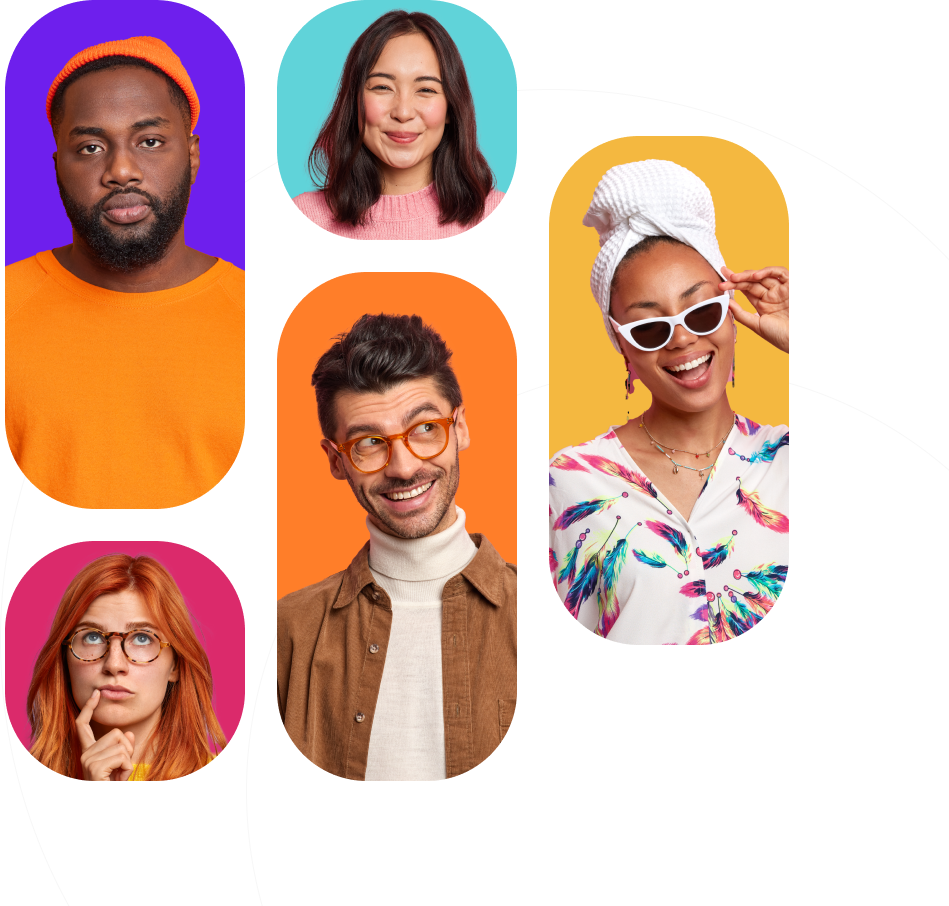
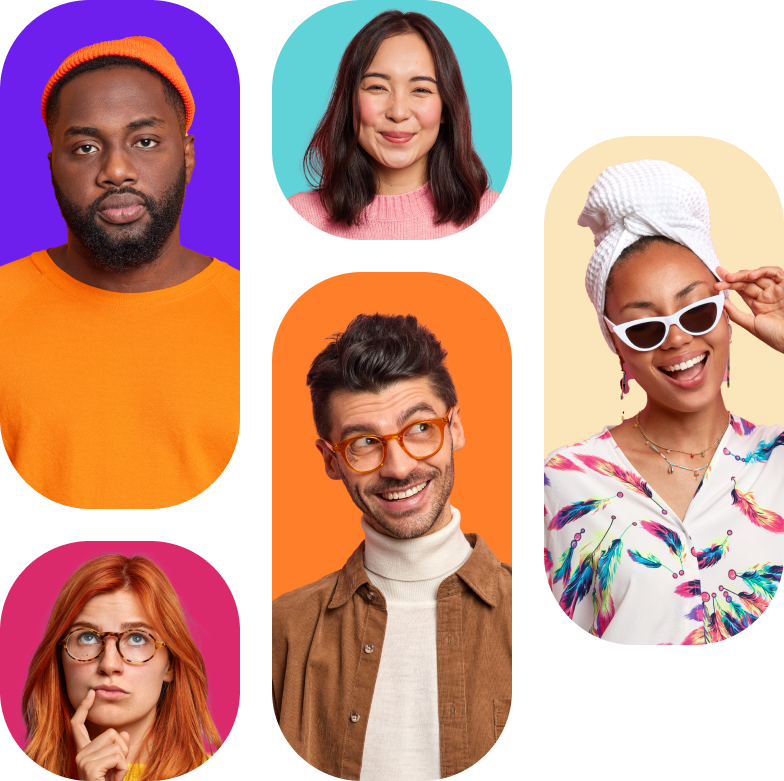
ui: exactly like figma design

diff --git a/src/styles/styles.scss b/src/styles/styles.scss
@@ -23,11 +23,13 @@ body {
   font-family: $font-main;
   background: $bg-color;
   color: $text-color;
+  background-image: url("/src/assets/images/elipses.svg");
+  background-repeat: no-repeat;
+  background-position: 100% 100%;
 }
 
 .container {
-  width: 90%;
-  max-width: 1200px;
+  max-width: 1600px;
   margin: 0 auto;
 }
 
@@ -35,16 +37,19 @@ body {
 // Header
 // =====================
 .header {
-  padding: 1.5rem 0;
+  padding: 2.5rem 0;
 
   .nav {
     display: flex;
     justify-content: space-between;
     align-items: center;
+    padding-right: 7rem;
+    font-size: 1.1rem;
+    font-weight: 300;
 
     .nav__links {
       display: flex;
-      gap: 2rem;
+      gap: 3.2rem;
       list-style: none;
 
       a {
@@ -83,7 +88,7 @@ body {
 // =====================
 .hero {
   display: flex;
-  align-items: center;
+  align-items: start;
   justify-content: space-between;
   padding: 4rem 0;
   gap: 3rem;
@@ -92,31 +97,34 @@ body {
     flex: 1;
 
     .hero__title {
+      margin-top: 2rem;
       font-family: $font-heading;
-      font-weight: 700;
+      font-weight: 600;
       margin-bottom: 1rem;
-      line-height: 1.2;
-      font-size: 4rem;
+      max-width: 90%;
+      font-size: 5rem;
     }
 
     .hero__subtitle {
       color: $text-secondary;
       margin-bottom: 2rem;
-      line-height: 2rem;
-      max-width: 450px;
-      font-size: 1.15rem;
+      line-height: 2.5rem;
+      max-width: 80%;
+      font-size: 1.4rem;
       font-style: normal;
+      font-weight: 300;
     }
 
     .hero__buttons {
       display: flex;
-      gap: 1.5rem;
+      // gap: 1rem;
       margin-bottom: 3rem;
+      font-size: 1.1rem;
 
       .btn {
-        padding: 0.3rem 2.5rem;
-        border-radius: 6px;
-        font-weight: 500;
+        padding: 1rem 4.5rem;
+        border-radius: 1rem 1rem 1rem 0;
+        font-weight: 300;
         text-decoration: none;
         transition: background 0.3s ease;
         display: inline-flex;
@@ -134,15 +142,15 @@ body {
         &--link {
           color: $text-color;
           text-decoration: underline;
-          font-weight: 100;
+          font-weight: 500;
 
           &:hover {
             color: color.scale($text-color, $lightness: 20%);
           }
 
           .icon {
-            width: 1.5rem;
-            height: 1.5rem;
+            width: 2rem;
+            height: 2rem;
             margin-left: 10px;
           }
 
@@ -151,21 +159,18 @@ body {
     }
 
     .hero__features {
+      margin-top: 9rem; 
       display: flex;
-      gap: 2.3rem;
-      max-width: 500px;
+      gap: 2rem;
+      max-width: 80%;
+      font-size: 1.1rem;
+      font-weight: 600;
 
       .feature {
         display: flex;
         align-items: center;
-        gap: 0.5rem;
-        font-size: 0.9rem;
-        // color: $text-secondary;
+        gap: 1rem;
 
-        img {
-          width: 2.6rem;
-          height: 2.6rem;
-        }
       }
     }
   }

diff --git a/index.html b/index.html
@@ -3,7 +3,10 @@
   <head>
     <meta charset="UTF-8" />
     <link rel="icon" type="image/svg+xml" href="/vite.svg" />
-    <link href="https://fonts.googleapis.com/css2?family=Poppins&display=swap" rel="stylesheet">
+    <link rel="preconnect" href="https://fonts.googleapis.com">
+    <link rel="preconnect" href="https://fonts.gstatic.com" crossorigin>
+    <link href="https://fonts.googleapis.com/css2?family=Poppins:ital,wght@0,100;0,200;0,300;0,400;0,500;0,600;0,700;0,800;0,900;1,100;1,200;1,300;1,400;1,500;1,600;1,700;1,800;1,900&display=swap" rel="stylesheet">    
+    <link href="https://fonts.googleapis.com/css2?family=Merriweather:ital,opsz,wght@0,18..144,300..900;1,18..144,300..900&display=swap" rel="stylesheet">
     <meta name="viewport" content="width=device-width, initial-scale=1.0" />
     <title>Vite App</title>
   </head>

diff --git a/README.md b/README.md
@@ -1,3 +1,11 @@
+# Gath Session Landing Page
+
+https://rjardi.github.io/sass-gath-session/
+
+A modern, responsive landing page for a communities business. Built with semantic HTML and modular SASS.
+
+<img src="src/assets/images/snapshot.png">
+
 # 🖼 Importador de Assets desde Figma (Funcionalidad interna)
 
 Este script (`import-figma-assets.js`) permite **extraer automáticamente assets (SVG, PNG, JPG)** desde un archivo de Figma usando la API oficial.  
